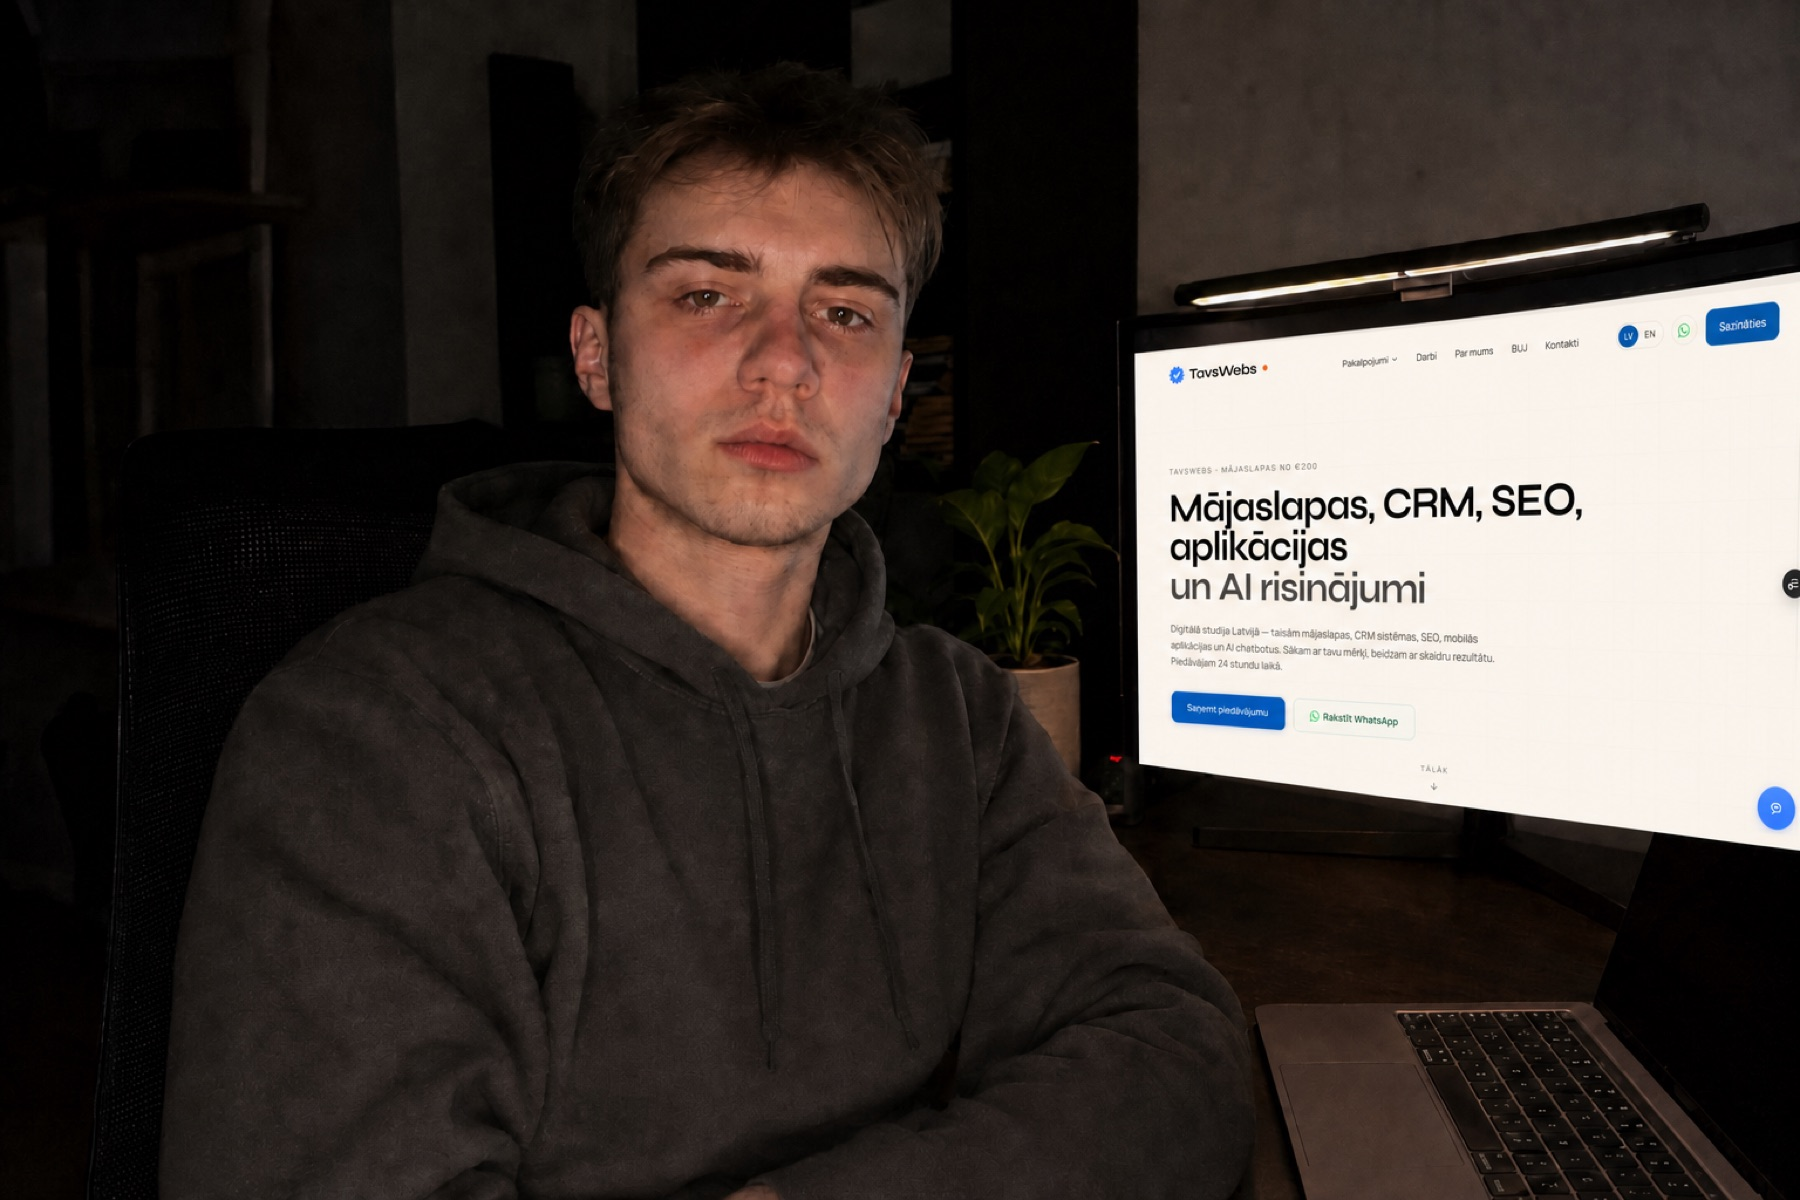
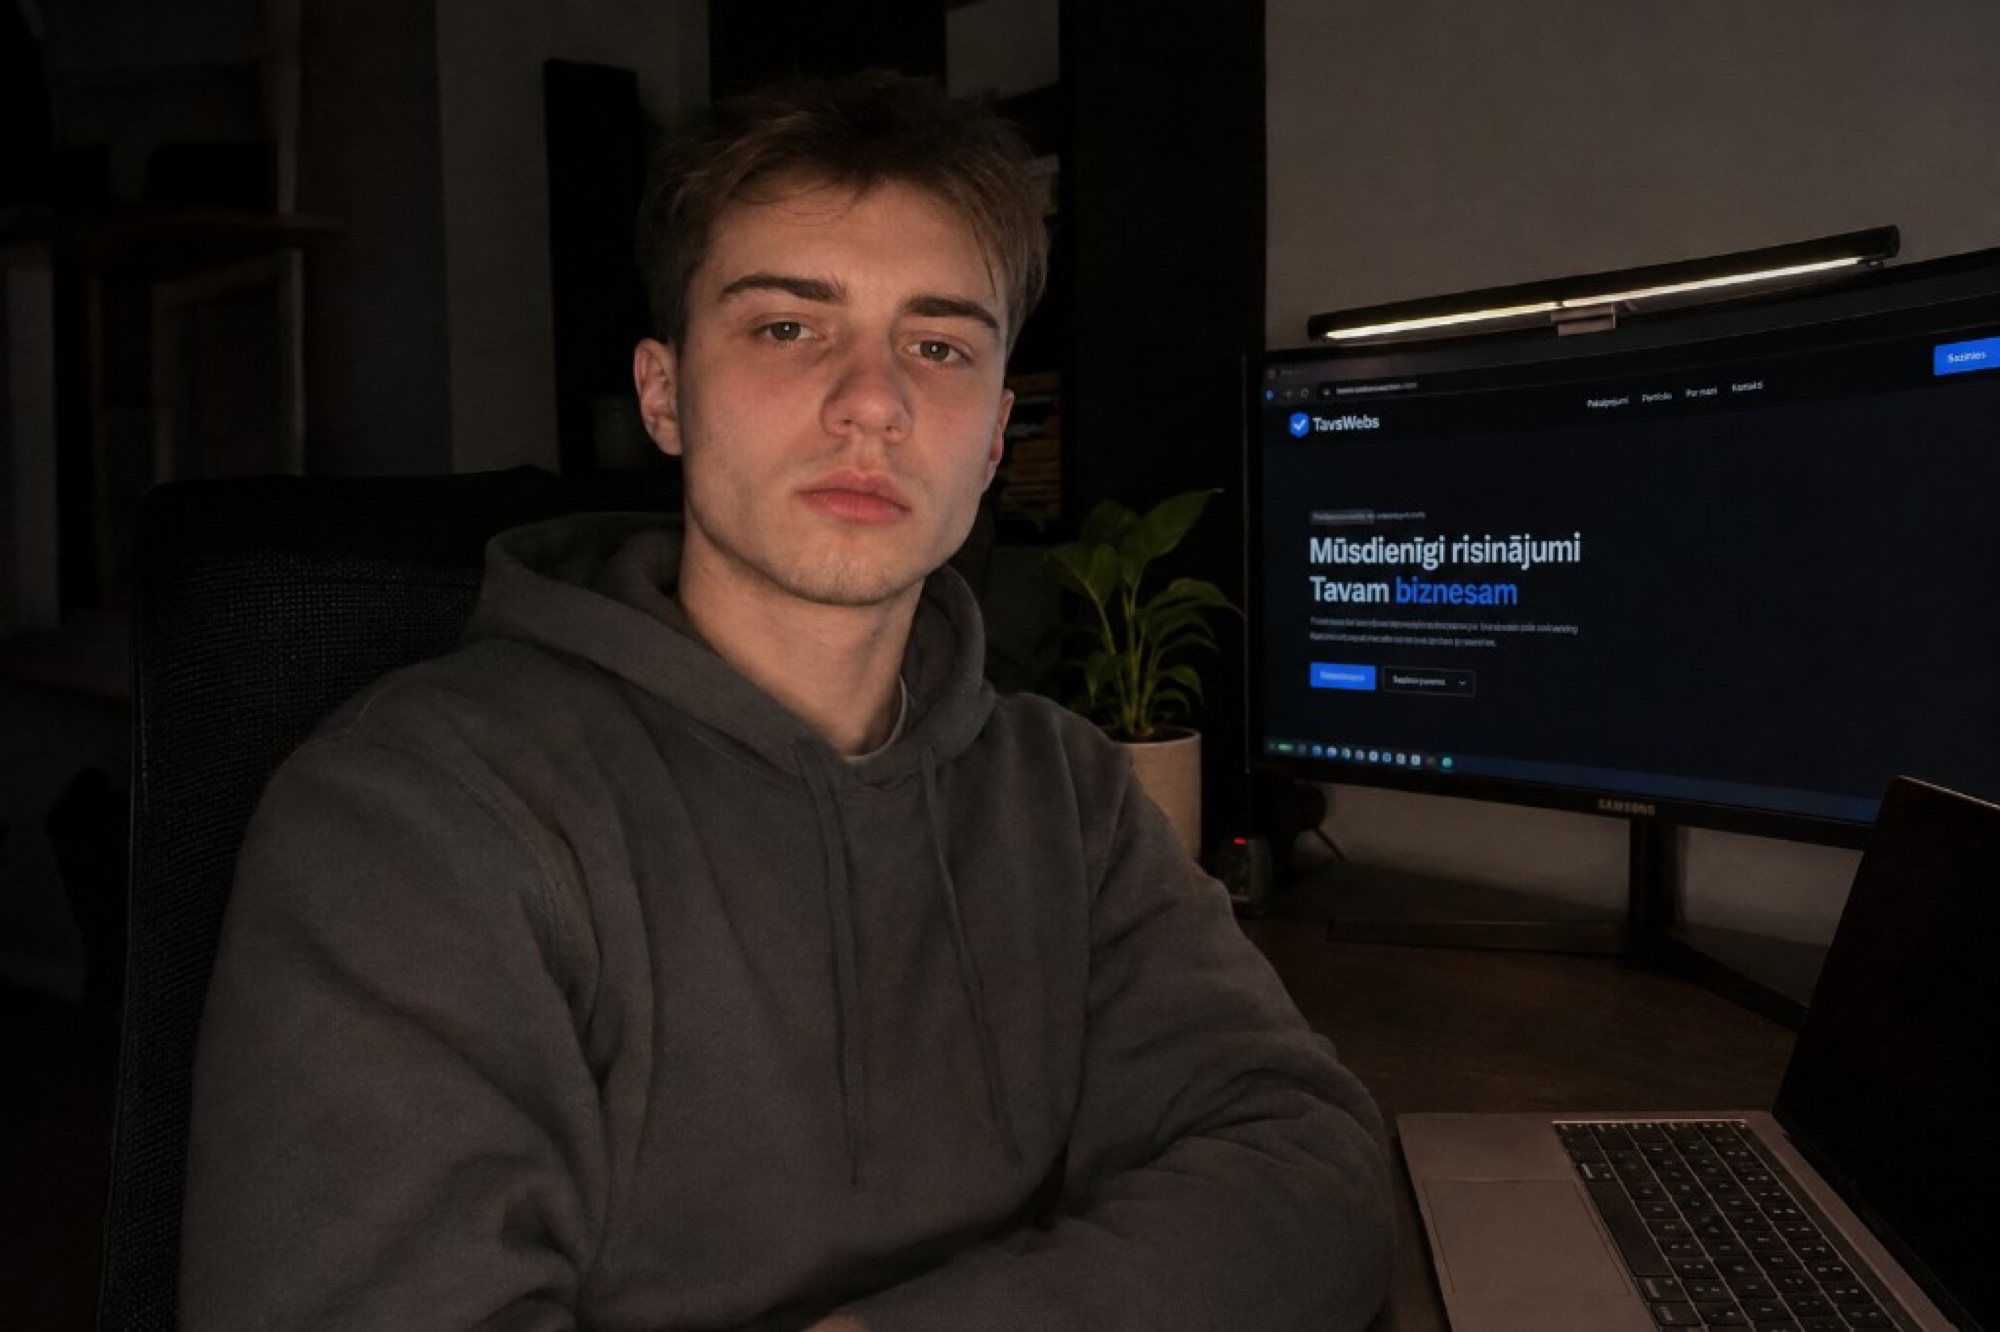
Restore original founder photo and stop washing it out with overlays.
Use the real desk portrait instead of AI screen composites, and move captions below the image so the face stays clear.

diff --git a/src/components/sections/Hero.tsx b/src/components/sections/Hero.tsx
@@ -99,25 +99,25 @@ export function Hero() {
             animate={{ opacity: 1, y: 0, scale: 1 }}
             transition={{ duration: 0.9, delay: 0.35, ease: EASE_OUT_EXPO }}
           >
-            <div className="relative aspect-[4/5] overflow-hidden rounded-[1.75rem] border border-border bg-surface shadow-md sm:aspect-[5/4] lg:aspect-[4/5] xl:aspect-[5/4]">
-              <Image
-                src="/about/founder.jpg"
-                alt={t("photoAlt")}
-                fill
-                priority
-                sizes="(max-width: 1024px) 100vw, 48vw"
-                className="object-cover object-[center_18%]"
-              />
-              <div className="pointer-events-none absolute inset-0 bg-gradient-to-t from-bg-elevated/80 via-transparent to-transparent" />
-              <div className="absolute inset-x-4 bottom-4 sm:inset-x-5 sm:bottom-5">
-                <div className="glass rounded-2xl px-4 py-3.5 sm:px-5 sm:py-4">
-                  <p className="text-xs font-medium uppercase tracking-[0.16em] text-dim">
-                    {t("photoLabel")}
-                  </p>
-                  <p className="mt-1 text-sm font-medium text-text sm:text-base">
-                    {t("photoCaption")}
-                  </p>
-                </div>
+            <div className="overflow-hidden rounded-[1.75rem] border border-border bg-surface shadow-md">
+              <div className="relative aspect-[4/5] sm:aspect-[5/4] lg:aspect-[4/5] xl:aspect-[5/4]">
+                <Image
+                  src="/about/founder.jpg"
+                  alt={t("photoAlt")}
+                  fill
+                  priority
+                  quality={90}
+                  sizes="(max-width: 1024px) 100vw, 48vw"
+                  className="object-cover object-[center_22%]"
+                />
+              </div>
+              <div className="border-t border-border bg-bg-elevated px-5 py-4">
+                <p className="text-xs font-medium uppercase tracking-[0.16em] text-dim">
+                  {t("photoLabel")}
+                </p>
+                <p className="mt-1 text-sm font-medium text-text sm:text-base">
+                  {t("photoCaption")}
+                </p>
               </div>
             </div>
           </motion.div>

diff --git a/src/components/sections/About.tsx b/src/components/sections/About.tsx
@@ -32,17 +32,19 @@ export function About({ showHeader = true }: { showHeader?: boolean }) {
           </div>
 
           <div className="lg:col-span-6 lg:col-start-7">
-            <div className="relative mb-14 aspect-[5/4] overflow-hidden rounded-[2rem] border border-border bg-surface shadow-sm">
-              <Image
-                src="/about/founder.jpg"
-                alt={t("photoAlt")}
-                fill
-                sizes="(max-width: 1024px) 100vw, 55vw"
-                className="object-cover object-[center_18%]"
-                priority
-              />
-              <div className="pointer-events-none absolute inset-0 bg-gradient-to-t from-bg-elevated/75 via-transparent to-transparent" />
-              <div className="absolute bottom-6 left-6 right-6 glass rounded-2xl p-5">
+            <div className="mb-14 overflow-hidden rounded-[2rem] border border-border bg-surface shadow-sm">
+              <div className="relative aspect-[5/4]">
+                <Image
+                  src="/about/founder.jpg"
+                  alt={t("photoAlt")}
+                  fill
+                  sizes="(max-width: 1024px) 100vw, 55vw"
+                  className="object-cover object-[center_22%]"
+                  priority
+                  quality={90}
+                />
+              </div>
+              <div className="border-t border-border bg-bg-elevated px-5 py-5 md:px-6">
                 <p className="text-sm text-muted">{t("philosophyLabel")}</p>
                 <p className="display mt-2 text-2xl">{t("philosophy")}</p>
               </div>

diff --git a/src/app/landing/page.tsx b/src/app/landing/page.tsx
@@ -154,17 +154,19 @@ export default function LandingPage() {
           </div>
 
           <div className="lg:col-span-3">
-            <div className="relative aspect-[4/5] overflow-hidden rounded-2xl border border-border bg-surface shadow-sm">
-              <Image
-                src="/about/founder.jpg"
-                alt="TavsWebs dibinātājs pie datora"
-                fill
-                priority
-                sizes="(max-width: 1024px) 100vw, 280px"
-                className="object-cover object-[center_18%]"
-              />
-              <div className="pointer-events-none absolute inset-0 bg-gradient-to-t from-bg-elevated/80 via-transparent to-transparent" />
-              <div className="absolute inset-x-3 bottom-3 rounded-xl bg-bg-elevated/95 px-3 py-2.5 backdrop-blur-sm">
+            <div className="overflow-hidden rounded-2xl border border-border bg-surface shadow-sm">
+              <div className="relative aspect-[4/5]">
+                <Image
+                  src="/about/founder.jpg"
+                  alt="TavsWebs dibinātājs pie datora"
+                  fill
+                  priority
+                  quality={90}
+                  sizes="(max-width: 1024px) 100vw, 280px"
+                  className="object-cover object-[center_22%]"
+                />
+              </div>
+              <div className="border-t border-border bg-bg-elevated px-3.5 py-3">
                 <p className="text-[10px] font-semibold uppercase tracking-[0.14em] text-dim">
                   Aiz projekta
                 </p>
